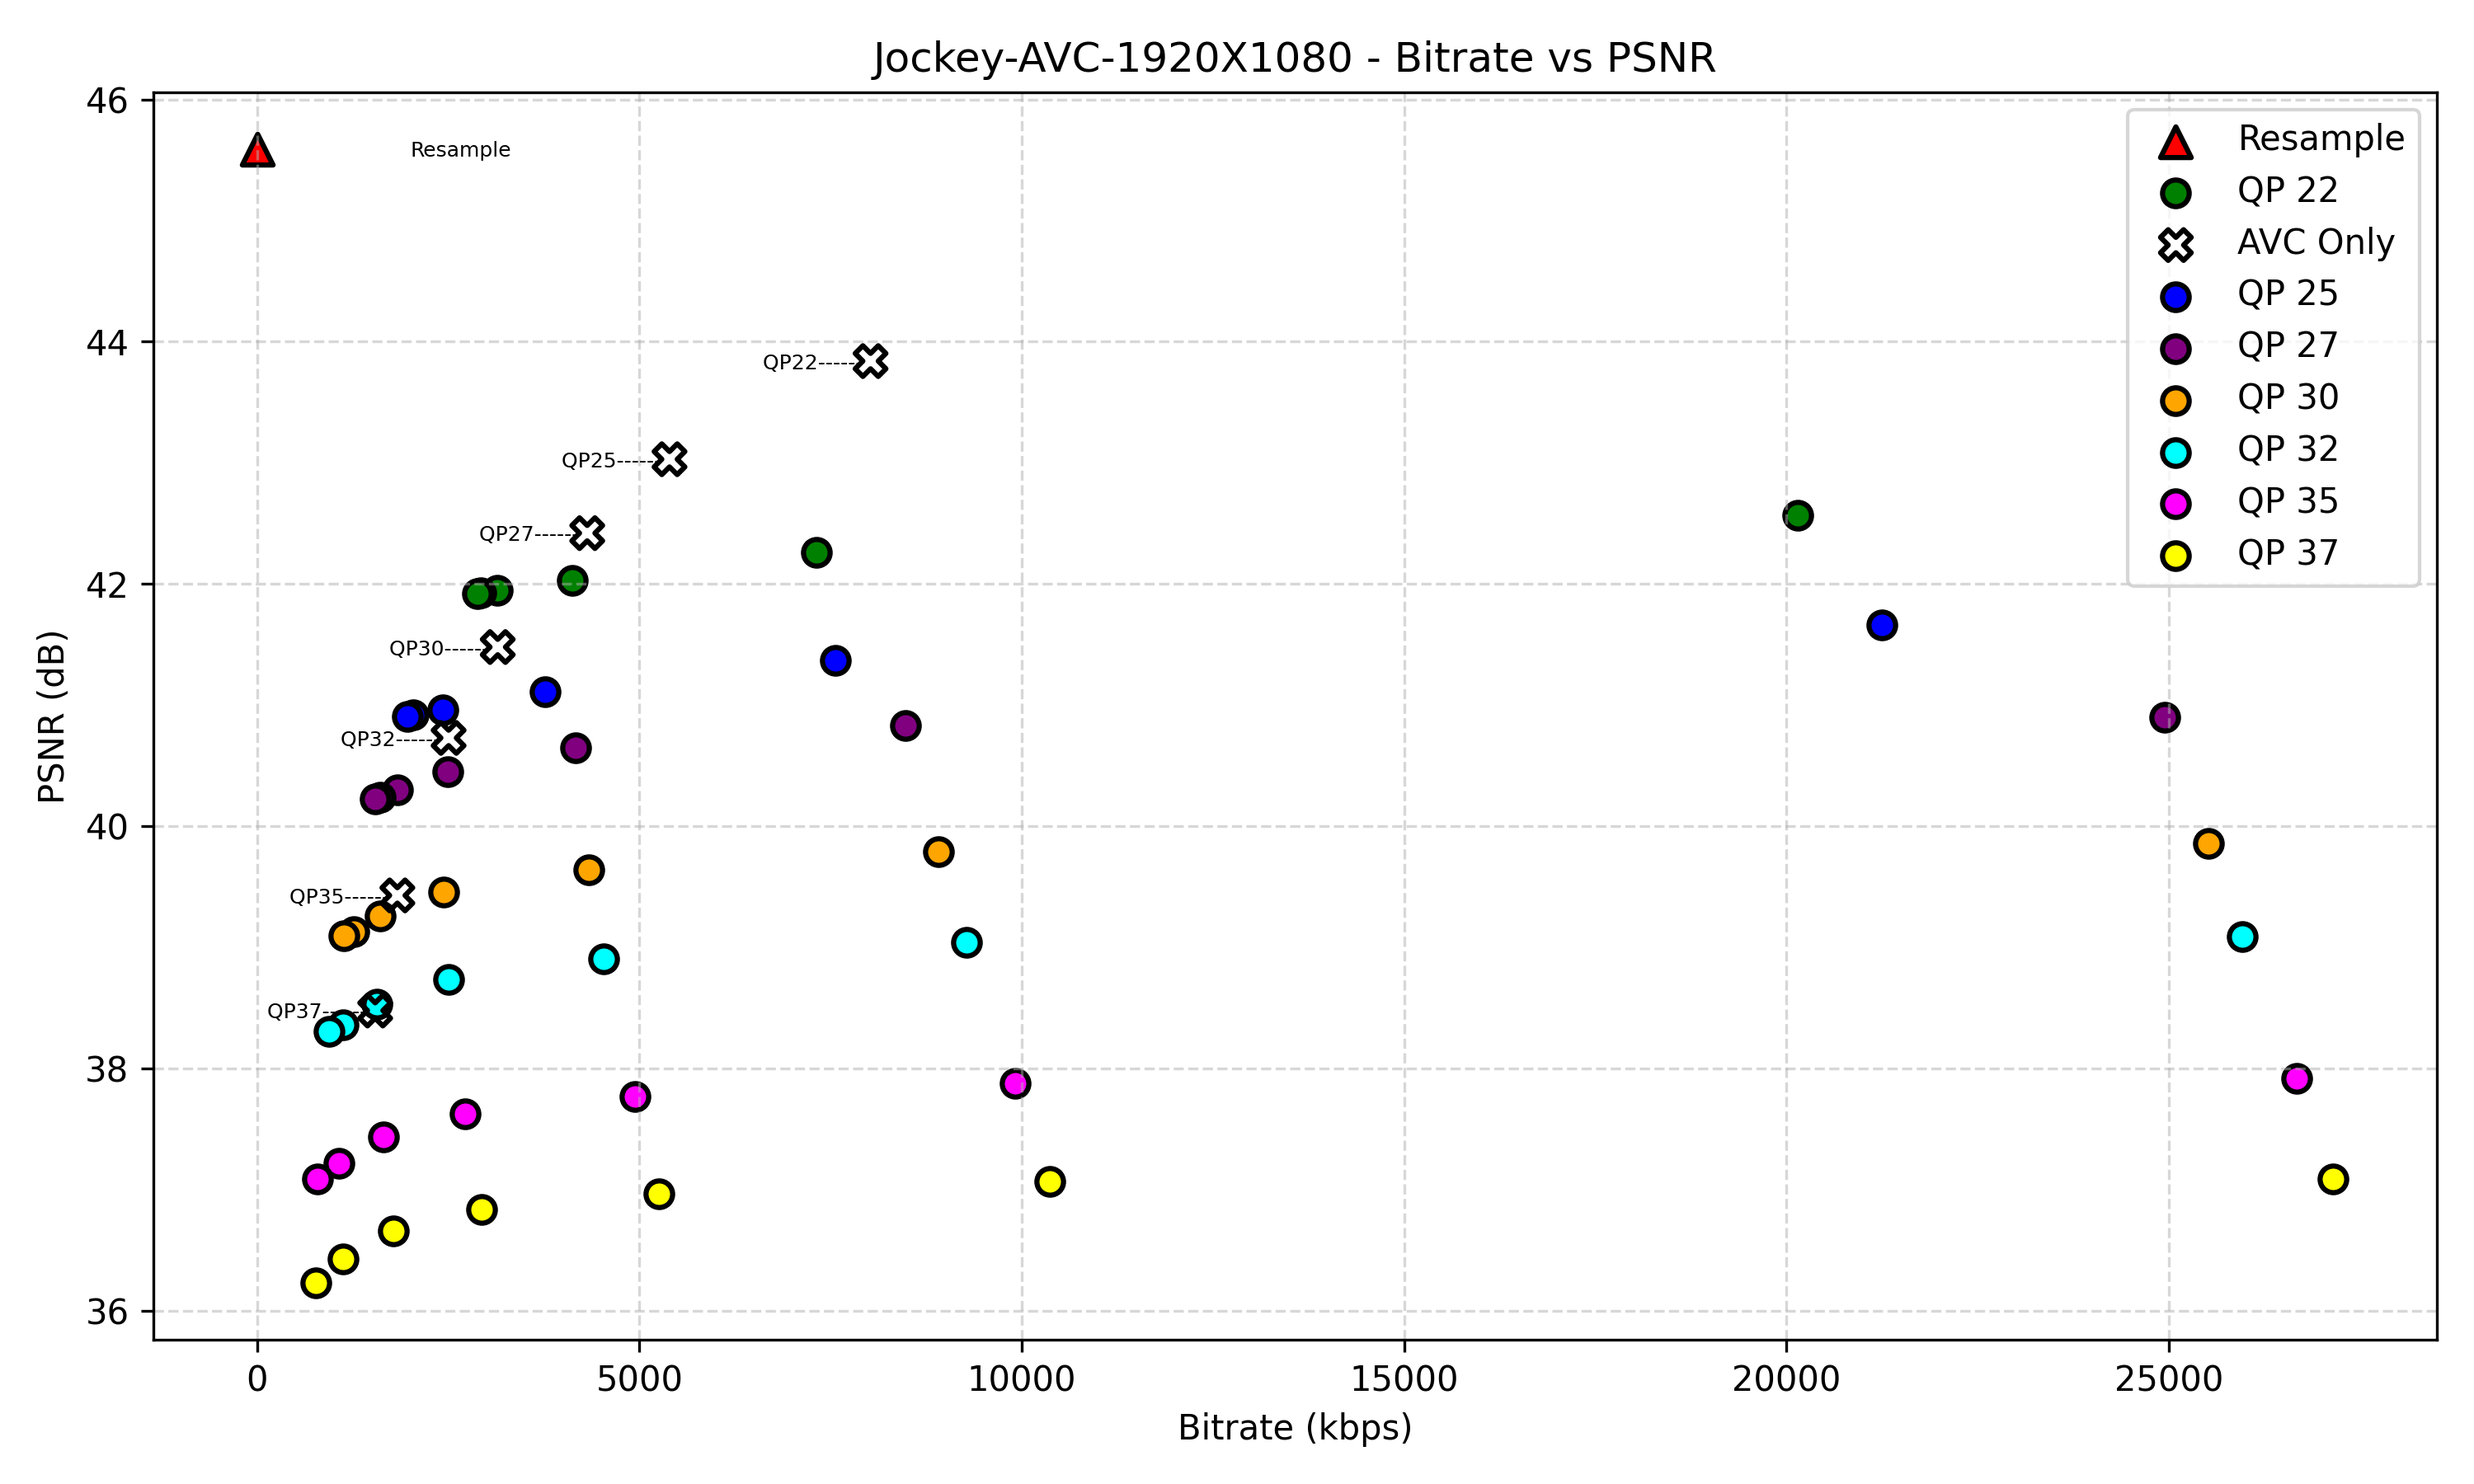
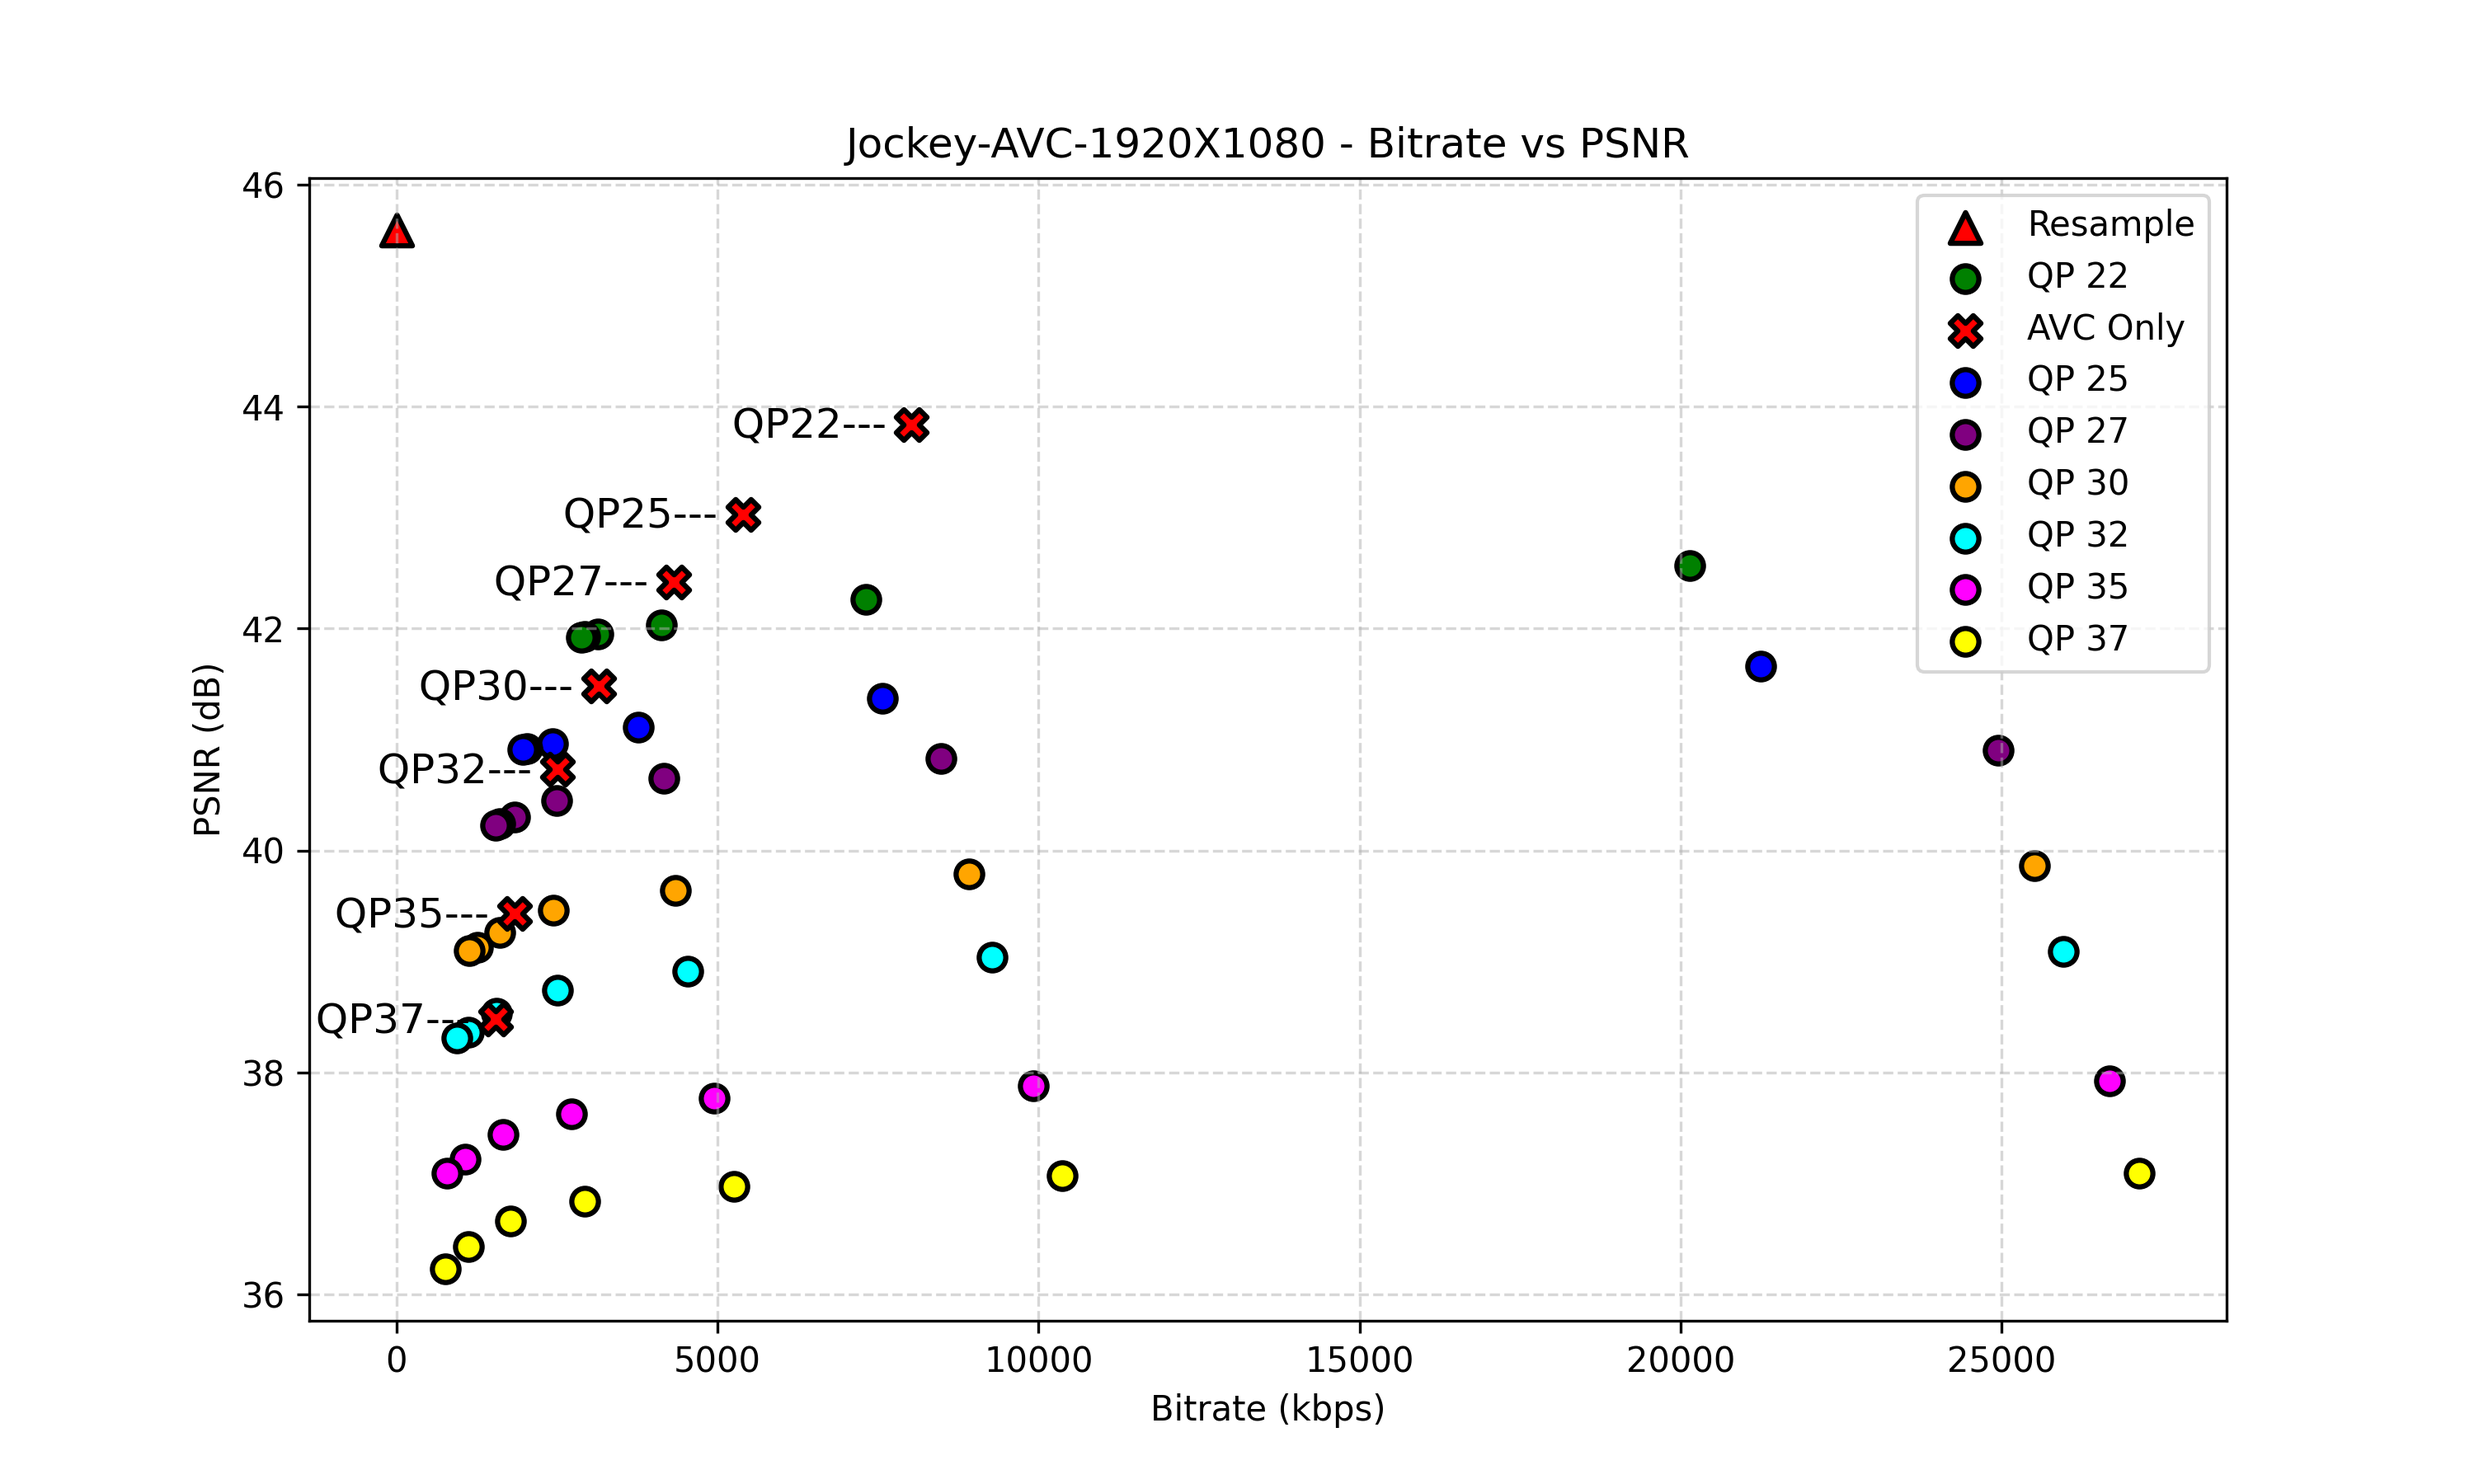
Updated via sync.sh

diff --git a/PSNR/psnr.py b/PSNR/psnr.py
@@ -42,8 +42,6 @@ for csv_path in csv_files:
     resample_plotted = False
     labels_plotted = set()
 
-    # ...
-
     for qp in qps:
         subset = df[df["qp"] == qp]
         for _, row in subset.iterrows():
@@ -52,8 +50,8 @@ for csv_path in csv_files:
 
             # Escolha do marcador, cor e tamanho
             marker = 'X' if is_reference else ('^' if is_resample else 'o')
-            edge_color = 'black'
-            face_color = 'none' if is_reference else colors[qp]
+            edge_color = "black" if is_reference else 'black'
+            face_color = 'red' if is_reference else colors[qp]
             size = 80 if (is_reference or is_resample) else 60
 
             # Define o texto da legenda
@@ -99,7 +97,8 @@ for csv_path in csv_files:
                 yoffset = -0.1
 
             if is_reference:
-                xoffset = -1600
+                xoffset = -200
+                yoffset = -0.2
             elif is_resample:
                 xoffset = -100
                 yoffset = -100
